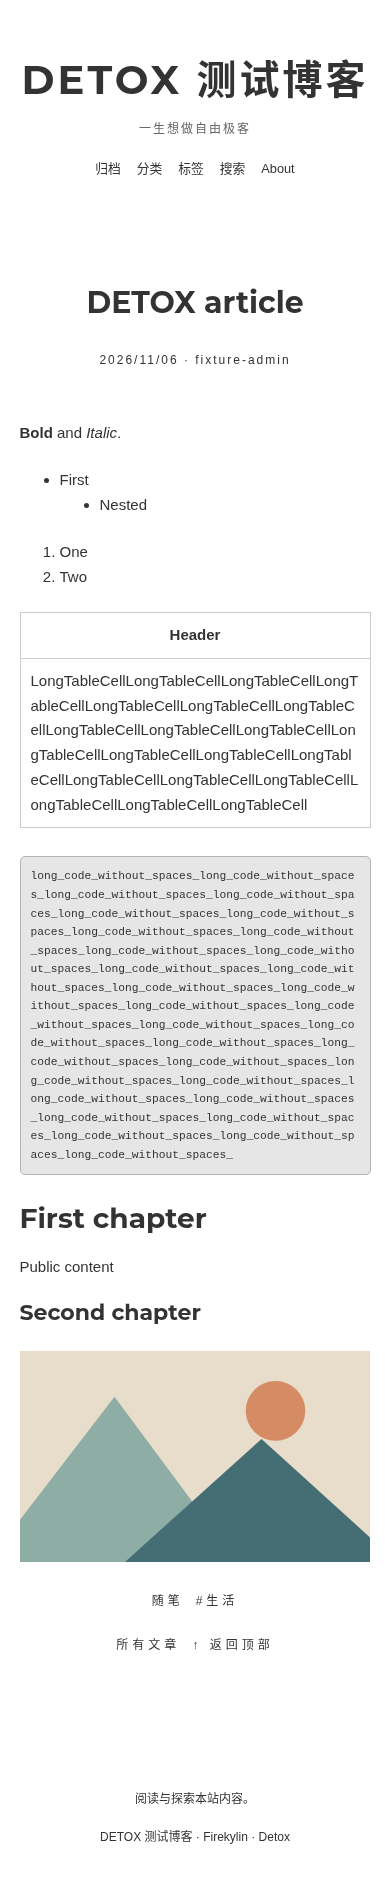
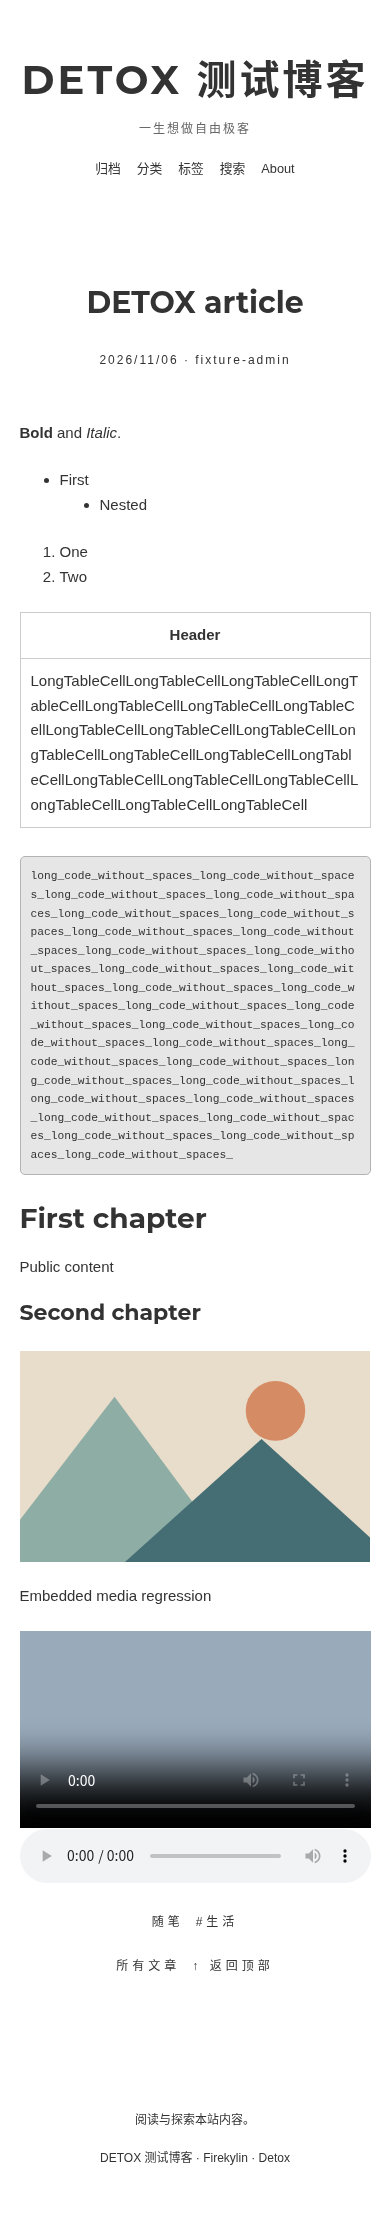
fix(detox): contain native embedded video and audio

diff --git a/packages/detox/res/css/theme.css b/packages/detox/res/css/theme.css
@@ -4,3 +4,6 @@
 body{overflow-wrap:anywhere}.skip{position:absolute;top:-100px}.skip:focus{top:0;z-index:99}.native-nav{display:flex;flex-wrap:wrap;gap:10px 16px;margin:18px 0}.prose pre,.prose table{display:block;max-width:100%;overflow:auto}.prose img,.attachment-media img{max-width:100%;height:auto;margin:1rem 0}.attachment-media video,.attachment-media audio,.prose iframe{max-width:100%}.prose ul{list-style:disc}.prose ol{list-style:decimal}.prose li{display:list-item}.pagination{display:flex;justify-content:space-between;gap:12px;margin:32px 0}.post-actions,.tags{display:flex;gap:12px;flex-wrap:wrap;margin:24px 0}input,button{font:inherit;max-width:100%;box-sizing:border-box}form{display:flex;flex-wrap:wrap;gap:10px}input{min-width:0}:focus-visible{outline:2px solid currentColor;outline-offset:3px}
 
 @font-face{font-family:Montserrat;src:url('../fonts/Montserrat.ttf') format('truetype');font-weight:100 900;font-style:normal;font-display:swap}:root{color-scheme:light}.native-nav{justify-content:center;font-size:.85em}.blog-description,.pagination{color:#666}.entry .post-title{line-height:1.2}.entry .post-time{color:#555}.native-footer{text-align:center;padding:30px 20px;font-size:.8em}.post-detail .article-meta{text-align:center;margin-bottom:50px}.post-detail .post-title{font-size:2.25rem;line-height:1.2}.post-detail .post-date{font-size:.8em;letter-spacing:2px}.post-footer .tags,.post-footer .post-actions{justify-content:center}.prose code{white-space:normal}.prose pre code{white-space:pre-wrap}.prose table th,.prose table td{padding:10px;border:1px solid #ccc}button,input[type=submit]{background:#333;color:#fff}.post-content a:hover{color:#555}.directory li{margin-bottom:10px}@media(max-width:550px){.blog-title{font-size:40px;letter-spacing:3px}.blog-description{letter-spacing:2px}.post-title{font-size:28px}.post-detail .post-title{font-size:30px}}
+
+/* Native post/page media may declare dimensions wider than the reading column. */
+.prose video,.prose audio{max-width:100%;box-sizing:border-box}.prose video{height:auto}
